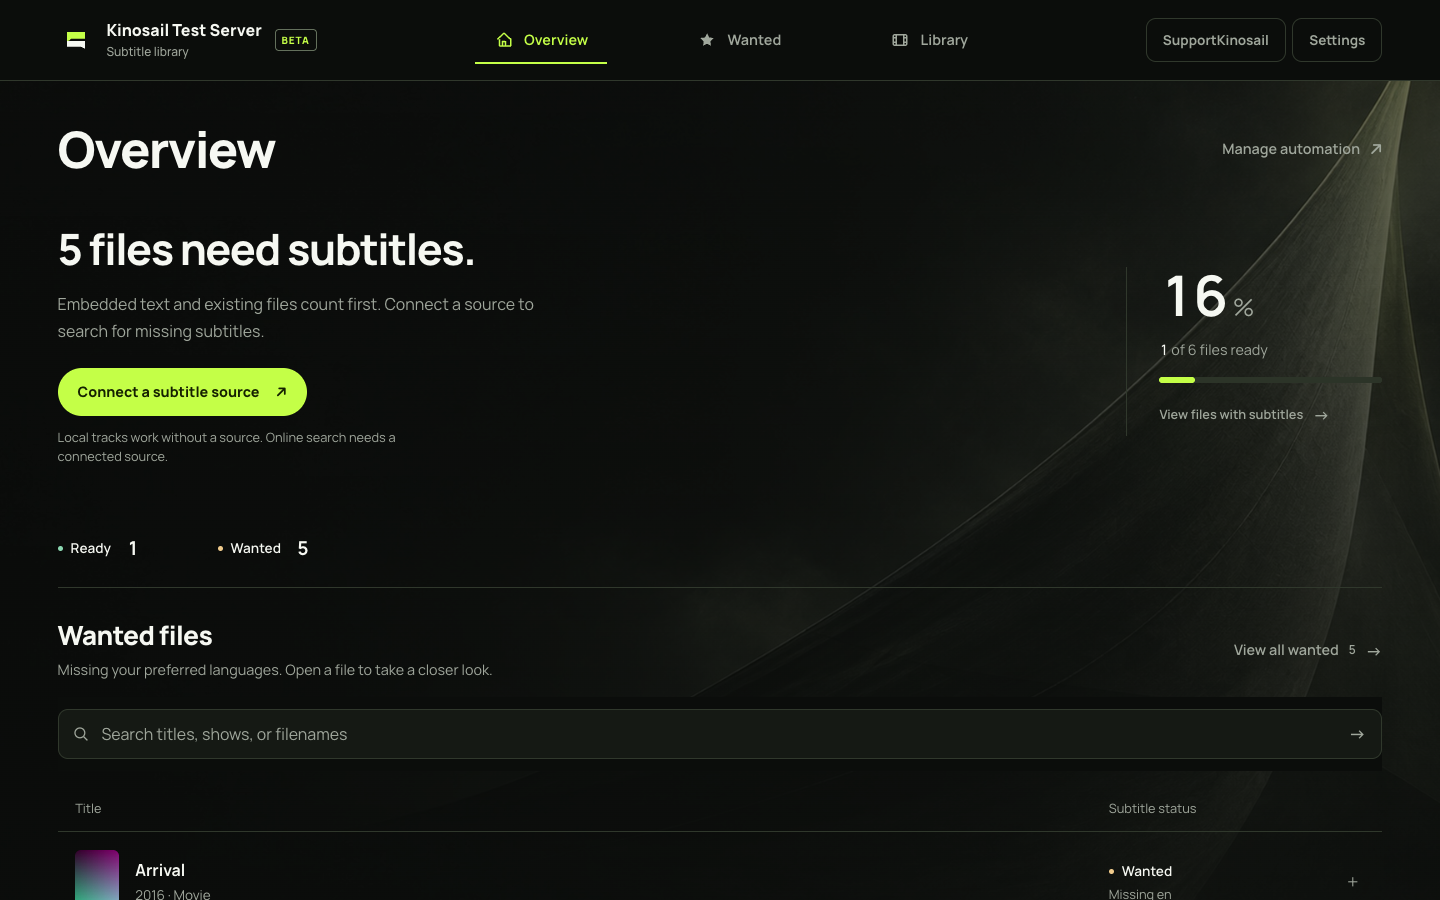
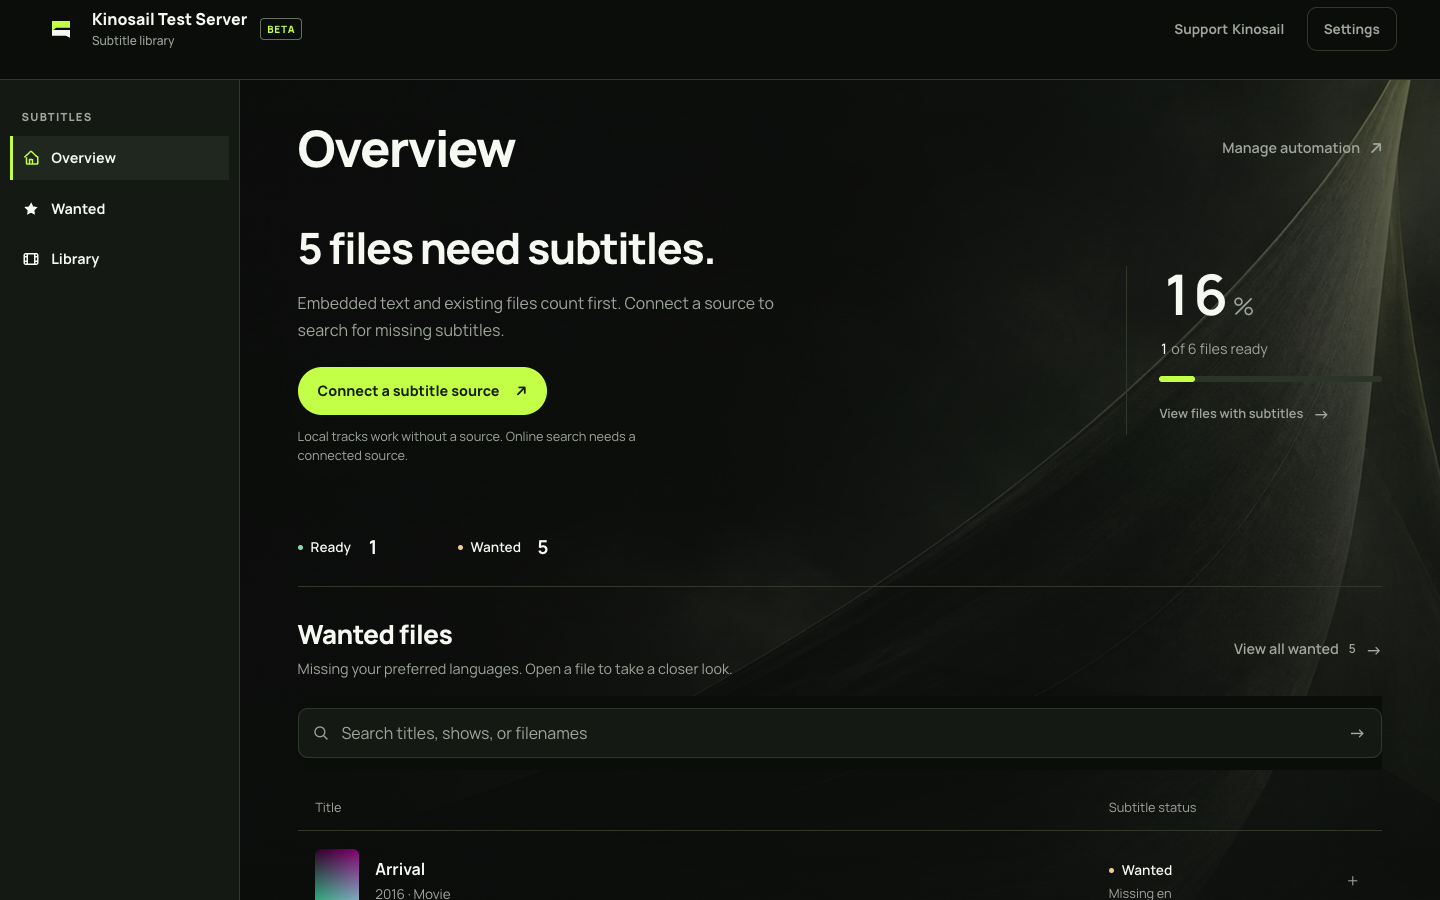
Align Subtitles navigation with Player shell

diff --git a/apps/subtitles/e2e/subtitle-dashboard-layout-tests.ts b/apps/subtitles/e2e/subtitle-dashboard-layout-tests.ts
@@ -3,6 +3,36 @@ import { expect, test } from "@playwright/test";
 import { compactViewports, expectNoHorizontalOverflow, expectSkipLinkOffscreen, initiallyOccludedTargets, occludedTargets, setSubtitleLanguages, supportedViewports } from "./subtitle-dashboard-helpers";
 
 export function registerSubtitleLayoutTests() {
+test("Subtitles navigation follows the Player shell at each breakpoint", async ({ page }, testInfo) => {
+  for (const [width, height] of [[1440, 900], [1200, 900], [1024, 768], [390, 844]]) {
+    await page.setViewportSize({ width, height });
+    await page.goto("/");
+    const shell = await page.evaluate(() => {
+      const header = document.querySelector(".app-header")!.getBoundingClientRect();
+      const nav = document.querySelector('.app-header nav[aria-label="Main navigation"]')!.getBoundingClientRect();
+      const main = document.querySelector(".subtitle-main")!.getBoundingClientRect();
+      return { header: { x: header.x, y: header.y, width: header.width, height: header.height }, nav: { x: nav.x, y: nav.y, width: nav.width, height: nav.height }, main: { x: main.x, y: main.y } };
+    });
+    expect(shell.header.x).toBe(0);
+    expect(shell.header.width).toBe(width);
+    if (width > 1100) {
+      expect(shell.nav.y).toBeGreaterThanOrEqual(shell.header.height - 1);
+      expect(shell.nav.x).toBe(0);
+      expect(shell.nav.width).toBe(240);
+      expect(shell.main.x).toBeGreaterThanOrEqual(shell.nav.width);
+    } else if (width > 900) {
+      expect(shell.nav.y).toBeGreaterThan(0);
+      expect(shell.nav.y).toBeLessThan(shell.header.height);
+      expect(shell.main.x).toBe(0);
+    } else {
+      expect(Math.round(shell.nav.y + shell.nav.height)).toBe(height);
+      expect(shell.main.x).toBe(0);
+    }
+    await expect(page.getByRole("link", { name: "Settings", exact: true })).toBeVisible();
+    await expectNoHorizontalOverflow(page);
+    if (width !== 1024) await page.screenshot({ path: testInfo.outputPath(`subtitles-dashboard-${width}.png`) });
+  }
+});
 test("phone settings expose every section without a hidden horizontal rail", async ({ page }) => {
   await page.setViewportSize({ width: 390, height: 844 });
   await page.goto("/settings");
@@ -23,7 +53,7 @@ test("phone settings expose every section without a hidden horizontal rail", asy
   expect(layout.links.every((link) => link.left >= layout.bounds.left - 1 && link.right <= layout.bounds.right + 1 && link.top >= layout.bounds.top - 1 && link.bottom <= layout.bounds.bottom + 1)).toBe(true);
 });
 
-test("Settings header keeps desktop destinations in one compact row", async ({ page }) => {
+test("Settings header keeps destinations inside the Player-style shell", async ({ page }) => {
   for (const width of [1920, 1280, 1024, 901]) {
     await page.setViewportSize({ width, height: 900 });
     await page.goto("/settings#provider");
@@ -34,7 +64,12 @@ test("Settings header keeps desktop destinations in one compact row", async ({ p
     });
     expect(layout.header.height, `${width}px header height`).toBeLessThanOrEqual(100);
     expect(layout.links).toHaveLength(3);
-    expect(layout.links.every((link) => Math.abs(link.top - layout.links[0].top) <= 1), `${width}px navigation row`).toBe(true);
+    if (width > 1100) {
+      expect(layout.links.every((link) => link.top >= layout.header.bottom - 1), `${width}px navigation rail`).toBe(true);
+      expect(layout.links[1].top).toBeGreaterThan(layout.links[0].top);
+    } else {
+      expect(layout.links.every((link) => Math.abs(link.top - layout.links[0].top) <= 1), `${width}px navigation row`).toBe(true);
+    }
     expect(layout.links.every((link) => link.left >= layout.nav.left - 1 && link.right <= layout.nav.right + 1), `${width}px navigation bounds`).toBe(true);
     await expectNoHorizontalOverflow(page);
   }

diff --git a/apps/subtitles/internal/server/static/subtitle-workspace.css b/apps/subtitles/internal/server/static/subtitle-workspace.css
@@ -2,6 +2,7 @@
 /* Subtitle workspace: the next file decision leads; coverage gives context. */
 .subtitle-dashboard{padding-left:0}
 .subtitle-dashboard>.app-header{position:sticky;inset:0 0 auto;display:grid;grid-template:"brand nav actions" auto/auto 1fr auto;align-items:center;width:100%;height:auto;min-height:80px;padding:1rem clamp(1.25rem,4vw,4rem);border:0;border-bottom:1px solid var(--line);background:var(--bg)}
+.subtitle-nav-heading{display:none}
 .subtitle-dashboard .brand-lockup{min-width:0;padding:0;gap:.8rem}
 .subtitle-brand-name{font-size:1rem;font-weight:800}
 .subtitle-brand-name small{font-size:.75rem;font-weight:500}
@@ -11,6 +12,18 @@
 .subtitle-dashboard .app-header nav a.active{background:none;color:var(--signal);box-shadow:inset 0 -2px var(--signal)}
 .subtitle-dashboard .subtitle-header-settings{grid-area:actions;display:flex;align-items:center;gap:.4rem;margin:0;padding:0;border:0;white-space:nowrap}
 .subtitle-dashboard .header-link{min-height:44px;padding:.6rem 1rem;border:1px solid var(--line);border-radius:10px;white-space:nowrap}
+.subtitle-dashboard .header-supporter{border:0;gap:.25rem}
+@media(min-width:1101px){
+  .subtitle-dashboard{padding-left:15rem}
+  .subtitle-dashboard>.app-header{grid-template:"brand actions" auto/minmax(0,1fr) auto;height:5rem;min-height:5rem;margin-left:-15rem;width:calc(100% + 15rem);padding:.45rem clamp(1.5rem,3vw,3rem);background:var(--shell)}
+  .subtitle-dashboard .app-header nav{position:fixed;inset:5rem auto 0 0;z-index:29;display:grid;align-content:start;justify-content:stretch;width:15rem;min-height:0;overflow-y:auto;overscroll-behavior:contain;scrollbar-width:thin;margin:0;padding:1rem .6rem 1.5rem;border-right:1px solid var(--line);background:var(--surface)}
+  .subtitle-dashboard .subtitle-nav-heading{display:block;margin:.9rem .75rem .3rem;color:var(--muted);font-size:.7rem;line-height:1.3;font-weight:800;letter-spacing:.11em;text-transform:uppercase}
+  .subtitle-dashboard .app-header nav a{width:100%;min-height:44px;padding:.55rem .75rem;border-radius:9px;color:var(--text);font-size:.9rem;font-weight:700}
+  .subtitle-dashboard .app-header nav a.active{background:var(--surface-2);box-shadow:inset 3px 0 var(--signal);color:var(--text)}
+  .subtitle-dashboard .app-header nav a.active:before{color:var(--signal)}
+  .subtitle-dashboard .app-header nav a:hover{background:var(--surface-2)}
+}
+@media(min-width:1101px) and (forced-colors:active){.subtitle-dashboard .app-header nav a.active{outline:2px solid Highlight;box-shadow:none}}
 .subtitle-dashboard>.subtitle-main{width:min(100%,96rem);padding:2.5rem clamp(1.25rem,4vw,4rem) 5rem}
 .subtitle-page-heading{align-items:center;padding-bottom:1.5rem;border:0}
 .subtitle-page-heading h1{margin:0;font-size:clamp(2rem,3.5vw,3.25rem);font-weight:800;line-height:1.1;letter-spacing:-.035em}

diff --git a/apps/subtitles/internal/server/subtitle_dashboard_test.go b/apps/subtitles/internal/server/subtitle_dashboard_test.go
@@ -33,7 +33,7 @@ func TestSubtitleAppShowsCoverageAndWantedFiles(t *testing.T) { //nolint:cyclop 
 	if overview.Code != http.StatusOK || !strings.Contains(overview.Body.String(), "50%") || !strings.Contains(overview.Body.String(), "file needs") || !strings.Contains(overview.Body.String(), "Arrival") || strings.Contains(overview.Body.String(), "soundtrack") {
 		t.Fatalf("overview = %d %q", overview.Code, overview.Body.String())
 	}
-	for _, expected := range []string{`class="library-page subtitle-app subtitle-dashboard"`, `class="app-header"`, `class="brand-lockup"`, `class="web-beta-badge">Beta`, `href="/supporter" aria-label="Support Kinosail"`, `href="/?view=summary"`, `aria-current="page"`, `/static/app.css?v=cinema-8`} {
+	for _, expected := range []string{`class="library-page subtitle-app subtitle-dashboard"`, `class="app-header"`, `class="brand-lockup"`, `class="web-beta-badge">Beta`, `href="/supporter" aria-label="Support Kinosail"`, `href="/?view=summary"`, `aria-current="page"`, `/static/app.css?v=cinema-9`} {
 		if !strings.Contains(overview.Body.String(), expected) {
 			t.Fatalf("overview shell missing %q: %q", expected, overview.Body.String())
 		}
@@ -181,7 +181,7 @@ func TestSubtitleAppUsesKinosailSisterSetupAndFocusedSettings(t *testing.T) { //
 	start := requestApp(t, handler, http.MethodGet, "/onboarding", "")
 	onboarding := requestApp(t, handler, http.MethodGet, "/onboarding/connection", "")
 	setupBody := setup.Body.String()
-	if setup.Code != http.StatusOK || !strings.Contains(setupBody, "Kinosail Subtitles") || !strings.Contains(setupBody, "choose subtitle settings") || !strings.Contains(setupBody, "Create the Owner account first.") || !strings.Contains(setupBody, `/static/app.css?v=cinema-8`) || !strings.Contains(setupBody, `class="language-picker"`) || strings.Index(setupBody, `class="language-picker"`) > strings.Index(setupBody, `class="wizard-stage"`) {
+	if setup.Code != http.StatusOK || !strings.Contains(setupBody, "Kinosail Subtitles") || !strings.Contains(setupBody, "choose subtitle settings") || !strings.Contains(setupBody, "Create the Owner account first.") || !strings.Contains(setupBody, `/static/app.css?v=cinema-9`) || !strings.Contains(setupBody, `class="language-picker"`) || strings.Index(setupBody, `class="language-picker"`) > strings.Index(setupBody, `class="wizard-stage"`) {
 		t.Fatalf("setup = %d %q", setup.Code, setup.Body.String())
 	}
 	if settings.Code != http.StatusOK {

diff --git a/apps/subtitles/internal/server/supporter_test.go b/apps/subtitles/internal/server/supporter_test.go
@@ -175,7 +175,7 @@ func TestSupporterStoresPatronOrderAndLivingStandardIndependently(t *testing.T) 
 	living := apiCall(t, handler, token, http.MethodPost, "/api/v1/supporter/activate", map[string]any{"key": "MONTHLY_SUPPORTER_KEY"})
 	assertAPIBody(t, living, http.StatusOK, `"tier":"admiral"`, `"sustaining":true`, `"livingStandard":{"family":"living-standard"`, `"rank":8`, `"active":true`, `"serviceMarks":[3,6,12]`, `"patronOrder":{"family":"patron-order"`, `"tier":"lighthouse"`, `"livingLevel":8`, `"patronLevel":6`, `"masterworkLevel":6`, `"unlocked":14`, `"masterworkName":"Perfect Sync"`, `"masterworkEarned":true`, `"masterworkActive":true`)
 	page := apiCall(t, handler, token, http.MethodGet, "/supporter", nil)
-	assertAPIBody(t, page, http.StatusOK, "Monthly support · Recommended", "Living Standards", "Patron Orders", "Polyglot Array", "Linguist Crest", "Kinosail Subtitles", "caption emblem", "Download SVG certificate", "Share PNG certificate", "Perfect Sync · Level 6", "Caption Concord", "Living cadence active", "Collected", "/static/app.css?v=cinema-8")
+	assertAPIBody(t, page, http.StatusOK, "Monthly support · Recommended", "Living Standards", "Patron Orders", "Polyglot Array", "Linguist Crest", "Kinosail Subtitles", "caption emblem", "Download SVG certificate", "Share PNG certificate", "Perfect Sync · Level 6", "Caption Concord", "Living cadence active", "Collected", "/static/app.css?v=cinema-9")
 	if strings.Contains(page.Body.String(), "/static/app.css?v=electric-1") {
 		t.Fatal("supporter page retained the previous combined stylesheet key")
 	}

diff --git a/apps/subtitles/internal/server/timeline_test.go b/apps/subtitles/internal/server/timeline_test.go
@@ -33,7 +33,7 @@ func TestDirectPlayerShowsSourceChaptersAndClientSkipMarkers(t *testing.T) { //n
 	script := httptest.NewRecorder()
 	handler.ServeHTTP(script, httptest.NewRequestWithContext(t.Context(), http.MethodGet, "/static/player.js", nil))
 
-	for _, expected := range []string{"First contact", `data-auto-skip="intro,credits"`, `data-playback-token="`, `data-chapter data-start="90" data-end="600" data-seek="90"`, `<time>1:30</time>`, `<summary><span>Chapters</span><small>3</small></summary>`, `data-marker="intro"`, `data-marker="credits"`, `controls playsinline`, `data-player-controls`, `data-player-fullscreen`, `data-seek-preview hidden`, `data-trickplay="/trickplay/` + id + `/{second}`, `/static/player.js?v=54`, `/static/app.css?v=cinema-8`} {
+	for _, expected := range []string{"First contact", `data-auto-skip="intro,credits"`, `data-playback-token="`, `data-chapter data-start="90" data-end="600" data-seek="90"`, `<time>1:30</time>`, `<summary><span>Chapters</span><small>3</small></summary>`, `data-marker="intro"`, `data-marker="credits"`, `controls playsinline`, `data-player-controls`, `data-player-fullscreen`, `data-seek-preview hidden`, `data-trickplay="/trickplay/` + id + `/{second}`, `/static/player.js?v=54`, `/static/app.css?v=cinema-9`} {
 		if !strings.Contains(player.Body.String(), expected) {
 			t.Fatalf("player lacks %q: %q", expected, player.Body.String())
 		}

diff --git a/apps/subtitles/internal/server/passkeys_test.go b/apps/subtitles/internal/server/passkeys_test.go
@@ -24,7 +24,7 @@ func TestPasskeyCeremoniesAreLocalAndServerSide(t *testing.T) {
 	request.Host = "localhost:8080"
 	request.AddCookie(owner)
 	handler.ServeHTTP(account, request)
-	if account.Code != http.StatusOK || !strings.Contains(account.Body.String(), "Add a passkey") || !strings.Contains(account.Body.String(), "Add one directly on another device") || !strings.Contains(account.Body.String(), "/static/app.css?v=cinema-8") || !strings.Contains(account.Body.String(), "/static/passkeys.js?v=14") {
+	if account.Code != http.StatusOK || !strings.Contains(account.Body.String(), "Add a passkey") || !strings.Contains(account.Body.String(), "Add one directly on another device") || !strings.Contains(account.Body.String(), "/static/app.css?v=cinema-9") || !strings.Contains(account.Body.String(), "/static/passkeys.js?v=14") {
 		t.Fatalf("account = %d %q", account.Code, account.Body.String())
 	}
 	prompt := httptest.NewRecorder()

diff --git a/apps/subtitles/internal/server/subtitle_navigation.go b/apps/subtitles/internal/server/subtitle_navigation.go
@@ -3,6 +3,7 @@ package server
 const subtitleAppHeader = `<header class="app-header">
 <a class="brand-lockup" href="/" data-subtitle-nav><img class="brand-icon" src="/static/icon.svg?v=11" width="36" height="36" alt=""><span class="subtitle-brand-name">{{.ServerName}}<small>Subtitle library</small></span><span class="web-beta-badge">Beta</span></a>
 <nav aria-label="Main navigation">
+<h2 class="subtitle-nav-heading">Subtitles</h2>
 <a href="/?view=summary" data-subtitle-nav {{if eq .View "summary"}}class="active" aria-current="page"{{end}}>Overview</a>
 <a href="/?view=wanted" data-subtitle-nav {{if eq .View "wanted"}}class="active" aria-current="page"{{end}}>Wanted</a>
 <a href="/?view=library" data-subtitle-nav {{if eq .View "library"}}class="active" aria-current="page"{{end}}>Library</a>

diff --git a/apps/subtitles/internal/server/navigation_shell.go b/apps/subtitles/internal/server/navigation_shell.go
@@ -26,7 +26,7 @@ func saveNavigation(settings *settingsStore) http.HandlerFunc {
 	return settings.navigationController().Handler(localizedError)
 }
 
-const applicationCSSVersion = "cinema-8"
+const applicationCSSVersion = "cinema-9"
 
 var applicationNavigationView = newLocalizedTemplate("application-navigation", subtitleAppHeader)
 

diff --git a/engineering/documentation/subtitles-screenshot-provenance.md b/engineering/documentation/subtitles-screenshot-provenance.md
@@ -1,12 +1,12 @@
 # Subtitles documentation screenshots
 
-The four PNGs in `apps/subtitles/docs/assets/images/subtitles-*.png` were captured on 2026-09-27 from the actual Subtitles test instance at source revision `d5b98a585b8576e6f2b00cad5e7d070d43674e8a`. It ran in a local Podman container with synthetic movie and episode files made by `apps/subtitles/scripts/generate-test-media.sh`. The Owner and Supporter badge were test fixtures. No personal media, purchase, or production account was used.
+The three dashboard PNGs in `apps/subtitles/docs/assets/images/` were recaptured on 2026-09-27 from this commit's Subtitles app with the Player-style navigation. The isolated Podman test instance used synthetic movies and episodes from `apps/subtitles/scripts/generate-test-media.sh`, a test Owner, and no production account or personal media. The Supporter PNG retains its earlier synthetic capture at revision `d5b98a585b8576e6f2b00cad5e7d070d43674e8a`.
 
-The repeatable run used `apps/subtitles/scripts/test-instance.sh up` and `verify`, `go test ./internal/server -run TestWriteUIStateFixtures`, and the targeted Playwright dashboard and Supporter tests in `apps/subtitles/e2e/`. The run passed. Its command, environment, data, result, and original full-page and viewport screenshots are recorded in `/tmp/kinosail-subtitles-shipping.2yxgoP/manifest.txt` on the capture host. The committed PNGs are copies of the viewport artifacts without editing.
+The dashboard capture used `KINOSAIL_TEST_PROJECT=kinosail-nav-test KINOSAIL_PORT=38138 ./scripts/test-instance.sh up`, followed by the `Subtitles navigation follows the Player shell` Playwright test with `KINOSAIL_TEST_INSTANCE=1`, `KINOSAIL_E2E_URL=https://127.0.0.1:38138`, and the test instance TOTP secret read from its local fixture file. The focused capture passed (1 test). The complete populated dashboard suite passed (22 tests). The committed PNGs are unchanged copies of the viewport artifacts. The earlier Supporter capture remains documented in `/tmp/kinosail-subtitles-shipping.2yxgoP/manifest.txt` on the capture host.
 
 | Screenshot | SHA-256 |
 | --- | --- |
[7 lines of base64/hex data omitted]

diff --git a/apps/subtitles/DESIGN.md b/apps/subtitles/DESIGN.md
@@ -124,7 +124,7 @@ The frontmatter records reused roles from the current cascade. Apple clients hav
 
 ## Layout
 
-The sticky desktop header is at least 80px high. The main workspace is capped at 96rem, with `clamp(1.25rem,4vw,4rem)` horizontal padding. The overview combines flexible task copy with a 16rem coverage column and a 3rem gap. Its heading uses `clamp(1.75rem,3vw,2.75rem)`, weight 750 and 1.18 line height; the supporting paragraph uses 1rem with 1.65 line height.
+The sticky desktop header is at least 80px high. Above 1100px, a 15rem navigation rail starts below the full-width header, as in Player. The main workspace is capped at 96rem, with `clamp(1.25rem,4vw,4rem)` horizontal padding. The overview combines flexible task copy with a 16rem coverage column and a 3rem gap. Its heading uses `clamp(1.75rem,3vw,2.75rem)`, weight 750 and 1.18 line height; the supporting paragraph uses 1rem with 1.65 line height.
 
 At 900px and below, the header becomes 72px high and the three-destination navigation moves to the safe-area-aware bottom edge. Filters remain sticky beneath the header. Below 700px, overview columns stack, coverage becomes compact supporting text, the large number/meter recedes and primary task actions span the available width. Pending or unavailable state remains explicit.
 
@@ -152,7 +152,7 @@ Fields keep visible labels, native form behavior and a minimum 44px control heig
 
 ### Navigation and filters
 
-The selected destination has green text and a bottom rule. Desktop navigation is horizontal; mobile keeps the three actual destinations at the bottom. Search and filter fields are 50px high, use the surface role and retain their labels and native selection behavior. File disclosure remains a semantic details/summary control with its existing keyboard behavior.
+The selected destination has a green rule in the left rail or a bottom rule in compact navigation. Navigation stays horizontal from 901px to 1100px; mobile keeps the three actual destinations at the bottom. Search and filter fields are 50px high, use the surface role and retain their labels and native selection behavior. File disclosure remains a semantic details/summary control with its existing keyboard behavior.
 
 ### Cards / Containers
 
